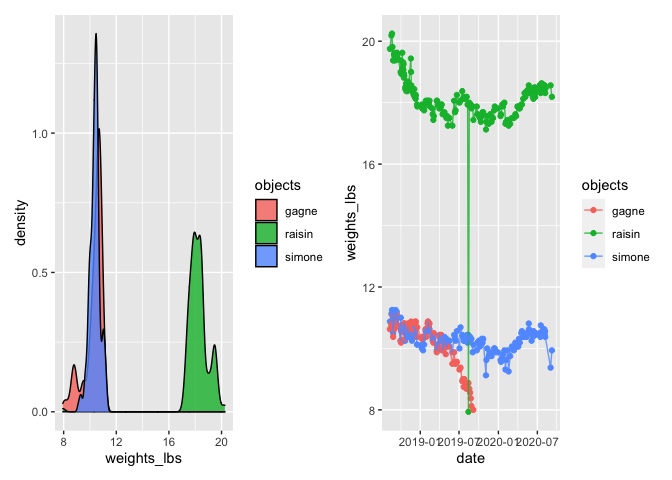
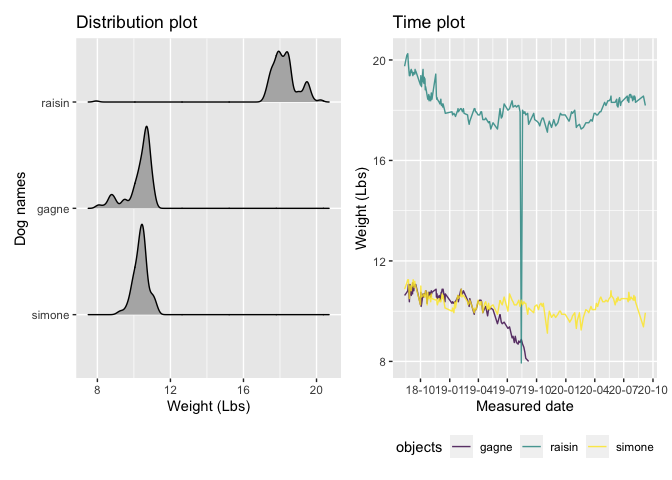
fix the plots and add desription for plots, word count is 398

diff --git a/p8105_mtp_yl4362.md b/p8105_mtp_yl4362.md
@@ -19,7 +19,11 @@ library(tidyverse)
 ``` r
 library(readxl)
 library(patchwork)
+library(ggridges)
+library(viridis)
 ```
+
+    ## Loading required package: viridisLite
 
 ### Problem 1
 
@@ -61,7 +65,8 @@ dog_weights_df =
     values_to = "weights") %>%
   separate(weights, into = c("lbs", "oz"), sep = " ") %>%
   mutate(
-    weights_lbs = as.numeric(lbs) + as.numeric(oz)/16
+    weights_lbs = as.numeric(lbs) + as.numeric(oz)/16,
+    date = as.Date(date)
   ) %>%
   select(!(lbs:oz))
 ```
@@ -157,23 +162,73 @@ dog_weights_df %>%
 ### Problem 3
 
 ``` r
-distri = 
+distri_plot = 
   dog_weights_df %>%
   drop_na(weights_lbs) %>%
   filter(objects %in% c("raisin", "simone", "gagne")) %>%
-  ggplot(aes(x = weights_lbs, fill = objects)) +
-  geom_density(alpha = 0.8)
+  mutate(objects = forcats::fct_relevel(objects, c("simone", "gagne", "raisin"))) %>% 
+  ggplot(aes(x = weights_lbs, y = objects)) +
+  geom_density_ridges(scale = .85) +
+  labs(
+    title = "Distribution plot",
+    x = "Weight (Lbs)",
+    y = "Dog names"
+  )
 
-time = 
+time_plot = 
   dog_weights_df %>%
   drop_na(weights_lbs) %>%
-  filter(objects %in% c("raisin", "simone", "gagne"), .preserve = FALSE) %>%
+  filter(objects %in% c("raisin", "simone", "gagne")) %>%
   group_by(objects %in% c("raisin", "simone", "gagne")) %>%
   ggplot(mapping = aes(x = date, y = weights_lbs, color = objects)) + 
-  geom_point() + 
-  geom_line(alpha = 0.8)
+  geom_line(alpha = 0.8) +
+  labs(
+    title = "Time plot",
+    x = "Measured date",
+    y = "Weight (Lbs)"
+  ) +
+  viridis::scale_color_viridis(
+    name = "objects", 
+    discrete = TRUE
+  ) +
+  scale_x_date(
+    date_breaks = "3 months",
+    date_labels = "%y-%m"
+  ) +
+  theme(legend.position = "bottom")
 
-distri + time
+distri_plot + time_plot
 ```
 
+    ## Picking joint bandwidth of 0.145
+
 ![](p8105_mtp_yl4362_files/figure-gfm/unnamed-chunk-7-1.png)<!-- -->
+
+``` r
+ggsave("distri_plot.pdf", distri_plot, width = 8, height = 5)
+```
+
+    ## Picking joint bandwidth of 0.145
+
+``` r
+ggsave("time_plot.pdf", time_plot, width = 8, height = 5)
+```
+
+The left `Distribution plot` shows the distribution of each dog’s
+weights. We can see the weights of raisin are way higher than the other
+dogs, while the weights of gagne and simone are similar.
+
+The right `Time plot` shows the change of each dog’s weights through
+time.
+
+For raisin, from the beginning time to 2019-Jan, its weight declined
+from 20 lbs to around 18 lbs. Then its weight kept relatively stable.
+The extremely low value (\<8 lbs) in 2019-Aug may be an incorrect
+record.
+
+For simone, its weight kept relatively stable through all the time.
+
+For gagne, its weight was stable in the initial time. But since
+2019-Apr, its weight dropped consistently and eventually it didn’t have
+any more record from 2019-Sep. From the note, we know that gagne died in
+2019-Sep-8.
